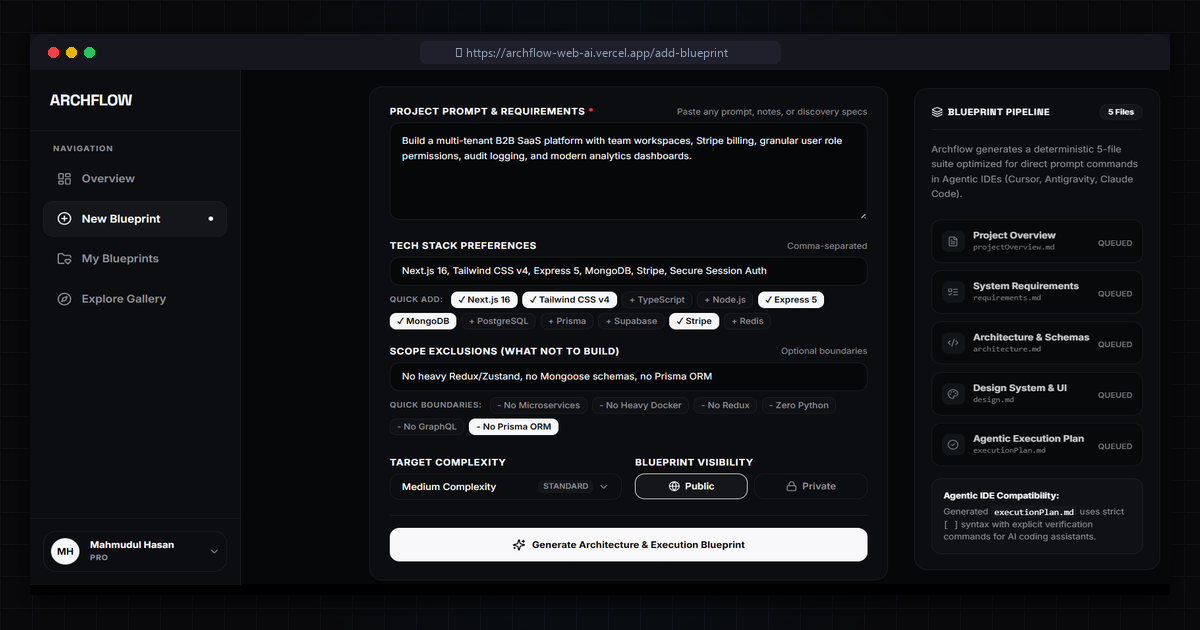
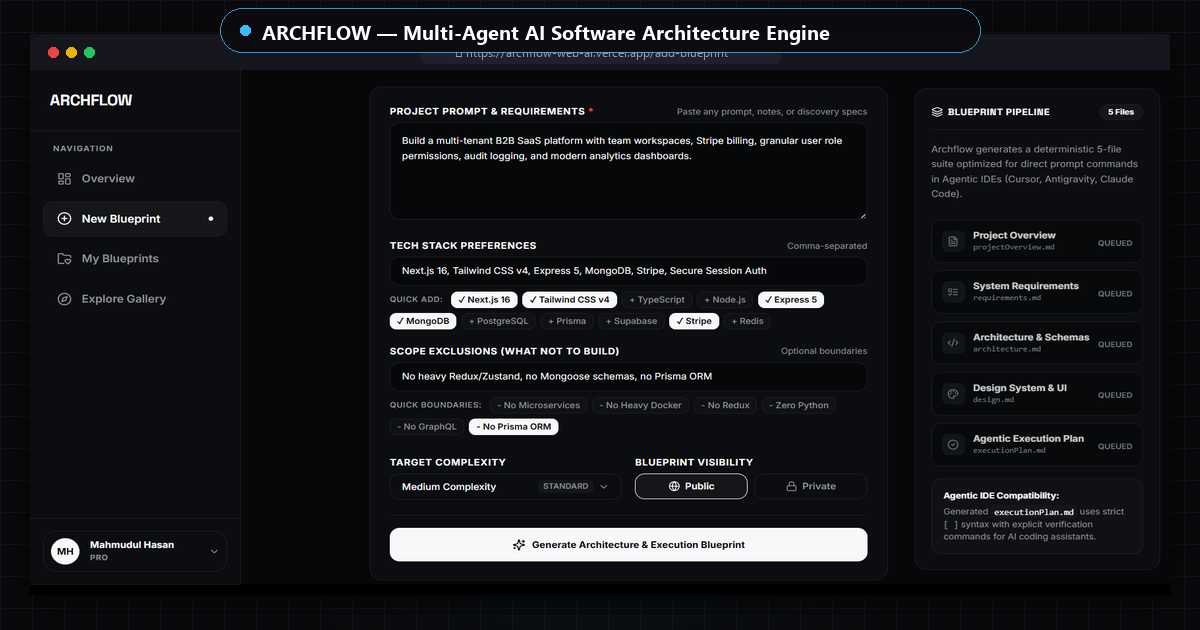
fix(seo): optimize title, meta description lengths and add conversion headline to OG image

Changed region(s): [[0.185, 0.0302, 0.7092, 0.0905]]

diff --git a/src/app/layout.tsx b/src/app/layout.tsx
@@ -22,11 +22,11 @@ const siteUrl =
 export const metadata: Metadata = {
   metadataBase: new URL(siteUrl),
   title: {
-    default: 'Archflow — AI Multi-Agent Architecture Engine | From Idea to Blueprint',
+    default: 'Archflow — AI Software Architecture Engine',
     template: '%s | Archflow',
   },
   description:
-    'Archflow is an AI software architecture engine orchestrating multi-agent blueprint design. Translates software concepts into production-ready specifications for Cursor and Claude Code. Engineered by Mahmudul Hasan.',
+    'Generate production-ready software architecture blueprints and markdown spec suites for Cursor and Claude Code with AI.',
   applicationName: 'Archflow',
   authors: [
     {
@@ -77,23 +77,23 @@ export const metadata: Metadata = {
     locale: 'en_US',
     url: siteUrl,
     siteName: 'Archflow',
-    title: 'Archflow — AI Multi-Agent Architecture Engine',
+    title: 'Archflow — AI Software Architecture Engine',
     description:
-      'Orchestrate 4 specialized AI agents to generate production-ready software architecture specs, database schemas, and design systems. Engineered by Mahmudul Hasan.',
+      'Turn ideas into production-ready software architecture blueprints and spec suites for AI IDEs.',
     images: [
       {
         url: `${siteUrl}/og-image.png`,
         width: 1200,
         height: 630,
-        alt: 'Archflow — AI Multi-Agent Architecture Engine Engineered by Mahmudul Hasan',
+        alt: 'Archflow — AI Multi-Agent Architecture Engine',
       },
     ],
   },
   twitter: {
     card: 'summary_large_image',
-    title: 'Archflow — AI Multi-Agent Architecture Engine',
+    title: 'Archflow — AI Software Architecture Engine',
     description:
-      'Translating natural language software concepts into production-ready 5-file architecture suites. Engineered by Mahmudul Hasan.',
+      'Turn ideas into production-ready software architecture blueprints and spec suites for AI IDEs.',
     creator: '@mahmudulhasanzb',
     images: [`${siteUrl}/og-image.png`],
   },
